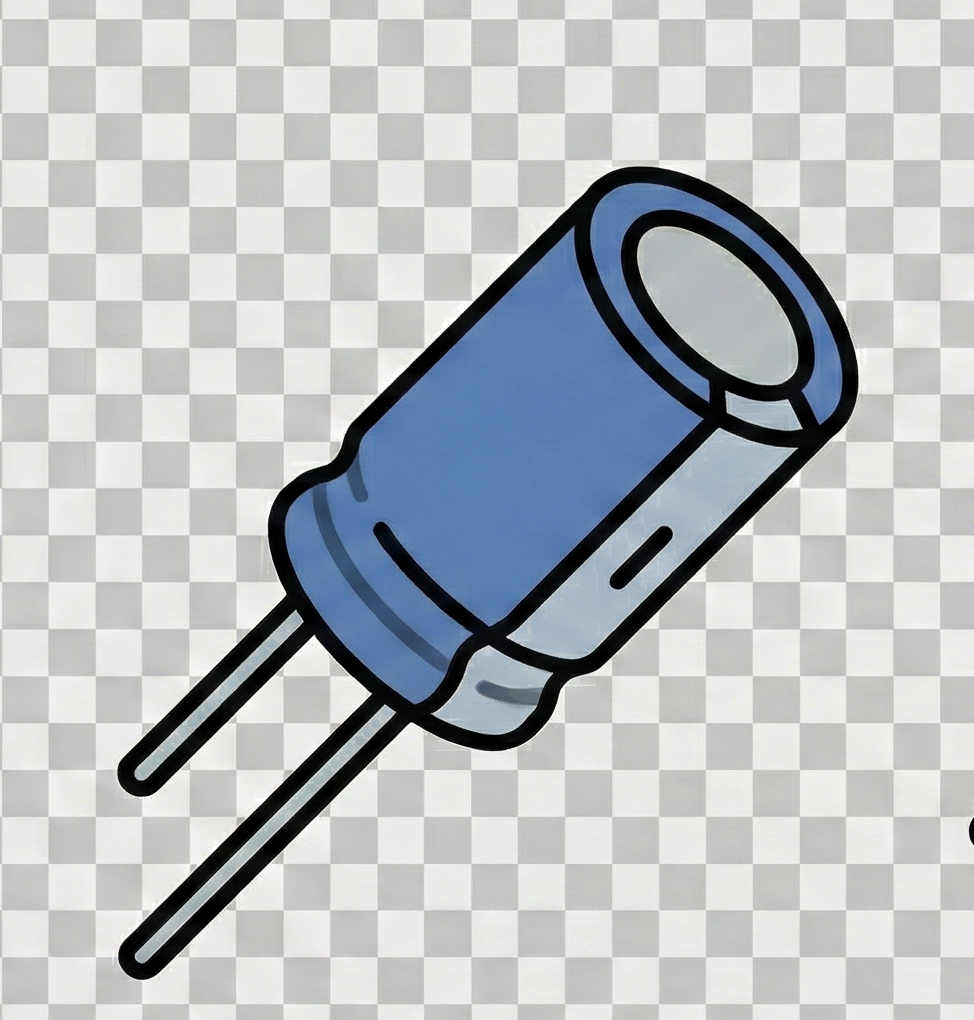
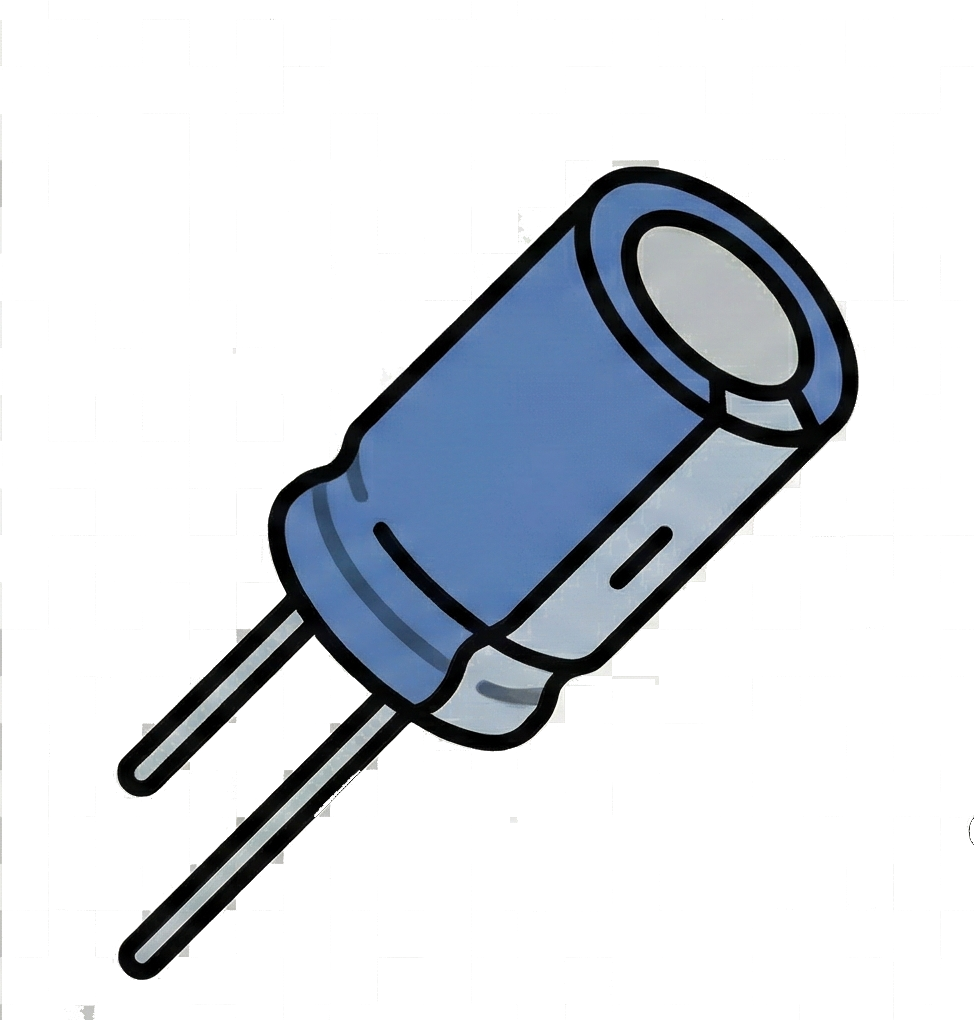
revised experiments

diff --git a/python_app/ar_main.py b/python_app/ar_main.py
@@ -14,7 +14,6 @@ import cv2
 import cv2.aruco as aruco
 
 from circuit_engine.loader import load_series_circuit_from_json
-from circuit_engine.solver import solve_series_circuit
 
 
 # ================= ASSETS =================
@@ -41,35 +40,34 @@ def get_component_type(comp_id: str):
         return "GPIO"
     if comp_id.startswith("GND"):
         return "GND"
-    return comp_id[0]  # V1 → V, R1 → R
+    return comp_id[0]   # V1 -> V, R1 -> R
 
 
 def base_component(terminal: str):
     return terminal.split(".")[0]
 
 
-# ===== OPTION 2: RGB CHECKERBOARD REMOVAL =====
-def remove_checkerboard_rgb(img):
+# ===== FINAL BRUTE-FORCE BACKGROUND REMOVAL =====
+def force_remove_background(img):
     """
-    Removes fake transparency / checkerboard baked into RGB.
-    Works even if alpha channel is fully opaque.
+    Aggressive background removal for demo purposes.
+    Removes white / grey / checkerboard regardless of alpha.
     """
     if img is None:
         return img
 
-    # Ensure RGBA
-    if img.shape[2] == 3:
-        bgr = img
-        alpha = np.ones(bgr.shape[:2], dtype=np.uint8) * 255
-    else:
-        b, g, r, alpha = cv2.split(img)
+    # Convert to BGR
+    if img.shape[2] == 4:
+        b, g, r, _ = cv2.split(img)
         bgr = cv2.merge([b, g, r])
+    else:
+        bgr = img
 
-    # Remove light grey / white background
-    mask = ~(
-        (bgr[:, :, 0] > 200) &
-        (bgr[:, :, 1] > 200) &
-        (bgr[:, :, 2] > 200)
+    # Kill light pixels (checkerboard / white background)
+    mask = (
+        (bgr[:, :, 0] < 220) |
+        (bgr[:, :, 1] < 200) |
+        (bgr[:, :, 2] < 200)
     )
 
     alpha = mask.astype(np.uint8) * 255
@@ -98,7 +96,7 @@ def overlay_image(frame, img, x, y):
         )
 
 
-# ============ BRANCH-AWARE LAYOUT ============
+# ============ SIMPLE LAYOUT ============
 def auto_layout_position(comp, visible_components, connections):
     base_x = 250
     gap_x = 170
@@ -109,12 +107,10 @@ def auto_layout_position(comp, visible_components, connections):
     x = base_x + idx * gap_x
     y = base_y
 
-    # Parallel branches from V1
+    # Simple parallel hint (from V1)
     branches = [b for a, b in connections if a == "V1"]
-
     if comp in branches:
-        branch_idx = branches.index(comp)
-        y = base_y - gap_y if branch_idx == 0 else base_y + gap_y
+        y = base_y - gap_y if branches.index(comp) == 0 else base_y + gap_y
 
     return x, y
 
@@ -189,7 +185,7 @@ def main():
 
         frame = cv2.flip(frame, 1)
 
-        # Status text
+        # Status
         cv2.putText(frame, status, (10, 30),
                     cv2.FONT_HERSHEY_SIMPLEX, 0.7, (0, 255, 0), 2)
 
@@ -209,8 +205,10 @@ def main():
         for comp in visible_components:
             x, y = auto_layout_position(comp, visible_components, connections)
             overlay_image(frame, component_images.get(comp), x, y)
+
+            # BLACK component labels
             cv2.putText(frame, comp, (x - 20, y + 75),
-                        cv2.FONT_HERSHEY_SIMPLEX, 0.6, (255, 255, 255), 2)
+                        cv2.FONT_HERSHEY_SIMPLEX, 0.6, (0, 0, 0), 2)
 
         cv2.imshow("eYantra AR Circuit Lab", frame)
 
@@ -228,7 +226,7 @@ def main():
                         img_path = COMPONENT_IMAGES.get(get_component_type(comp))
                         if img_path and img_path.exists():
                             img = cv2.imread(str(img_path), cv2.IMREAD_UNCHANGED)
-                            img = remove_checkerboard_rgb(img)
+                            img = force_remove_background(img)
                             img = cv2.resize(img, (120, 120))
                         component_images[comp] = img
                         visible_components.append(comp)
